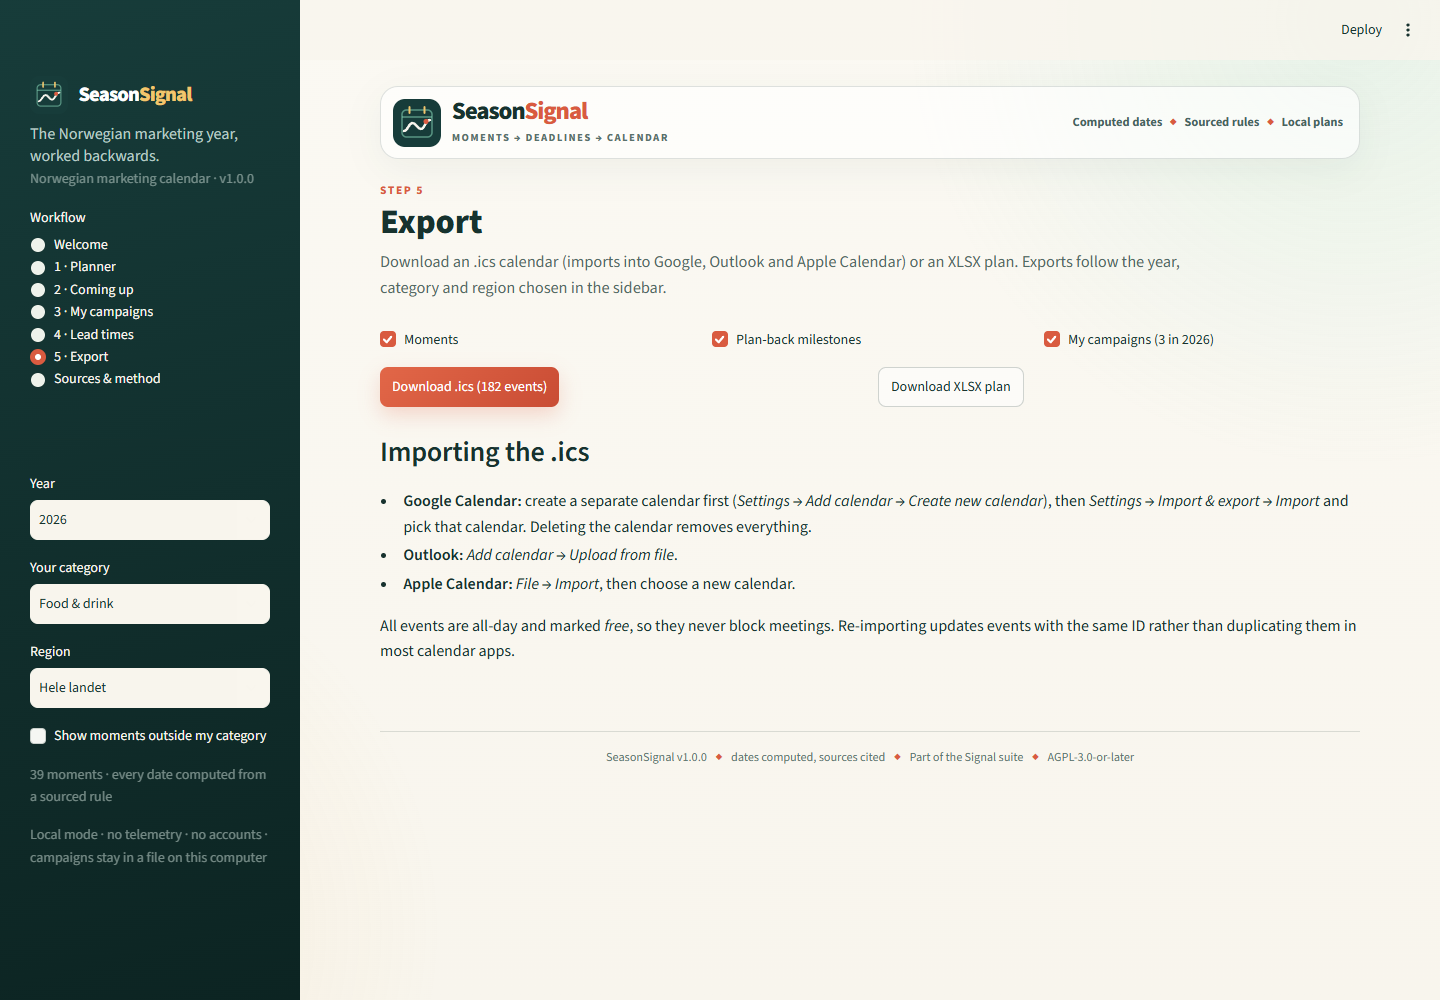
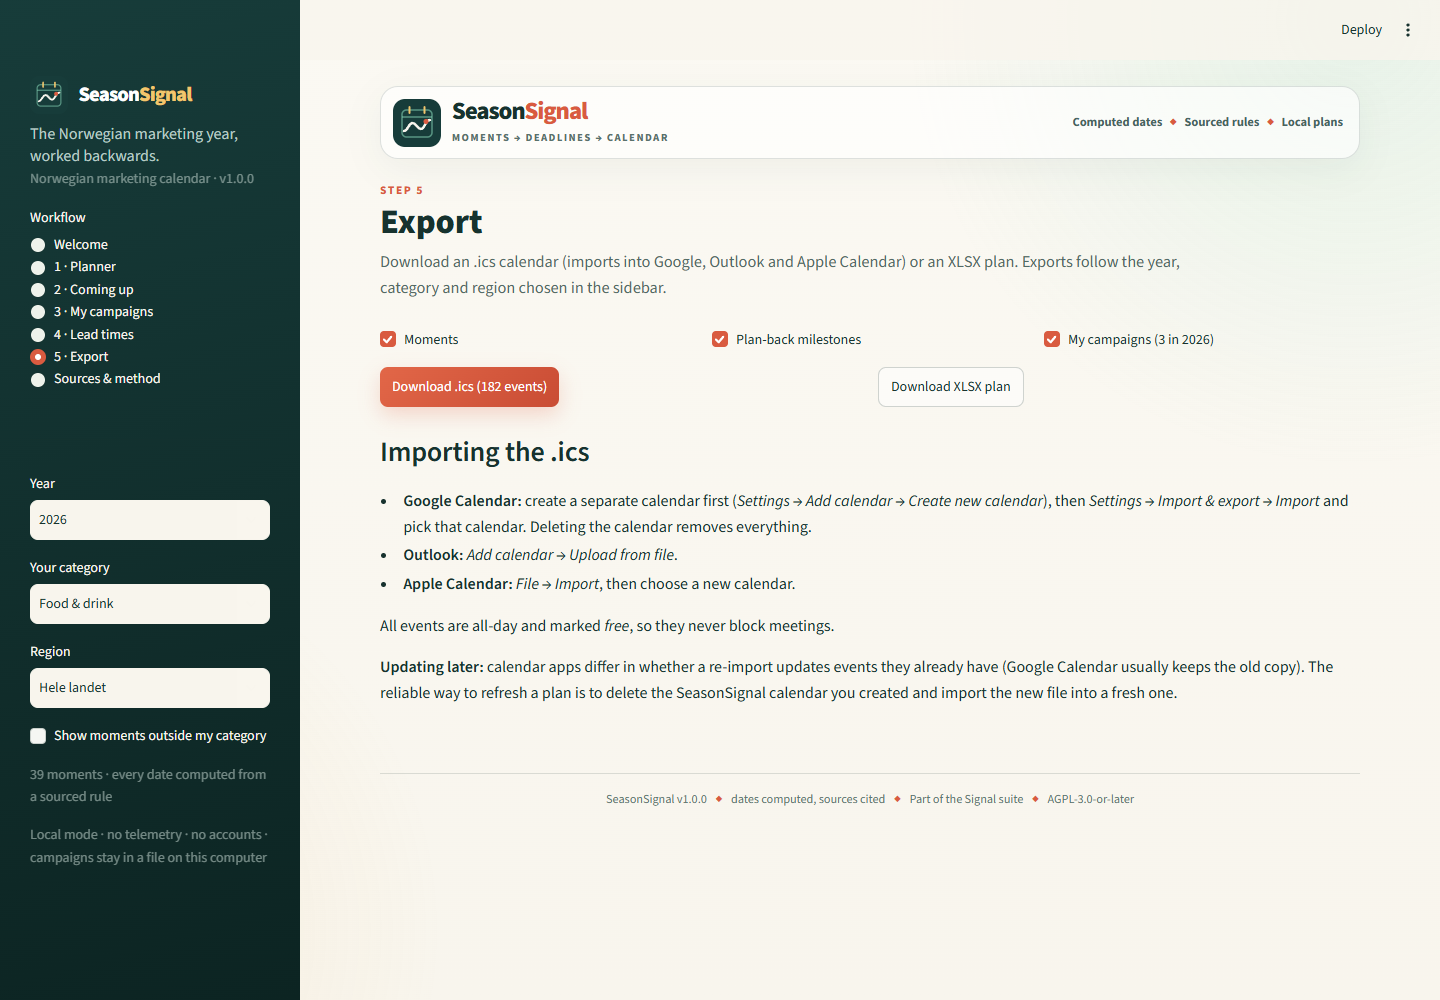
Keep New-Year spillover in the planner only; refresh screenshots
The planner shows ranges that began the previous year; exports hold only
the chosen year's moments and milestones. Screenshots show the new
import guidance.

Changed region(s): [[0.25, 0.62, 0.9375, 0.713], [0.4062, 0.744, 0.7812, 0.806]]

diff --git a/app.py b/app.py
@@ -271,9 +271,10 @@ def _selection():
     )
 
 
-def _planned(year: int, category: str, region: str, show_all: bool):
-    # The calendar year, including ranges that began the year before (e.g. the school Christmas break).
-    year_view = LIBRARY.window(date(year, 1, 1), 12, region)
+def _planned(year: int, category: str, region: str, show_all: bool, *, spillover: bool = False):
+    # With spillover, the calendar year also shows ranges that began the year before (the school Christmas
+    # break running into January). Exports leave them out, so a year's file holds only that year's plans.
+    year_view = LIBRARY.window(date(year, 1, 1), 12, region) if spillover else LIBRARY.occurrences(year, region)
     occurrences = select_occurrences(LIBRARY, year_view, category, include_all=show_all)
     return plan_moments(LIBRARY, occurrences, _store().lead_times, category)
 
@@ -462,7 +463,7 @@ def page_planner() -> None:
         " (public holidays always shown for context). Click a bar or diamond to see its plan-back milestones. "
         "⇢ marks a range that varies by kommune.",
     )
-    planned = _planned(year, category, region, show_all)
+    planned = _planned(year, category, region, show_all, spillover=True)
     frame = moments_frame(LIBRARY, planned, TODAY)
     upcoming = frame[frame["Start"] > TODAY]
     cols = st.columns(4)
